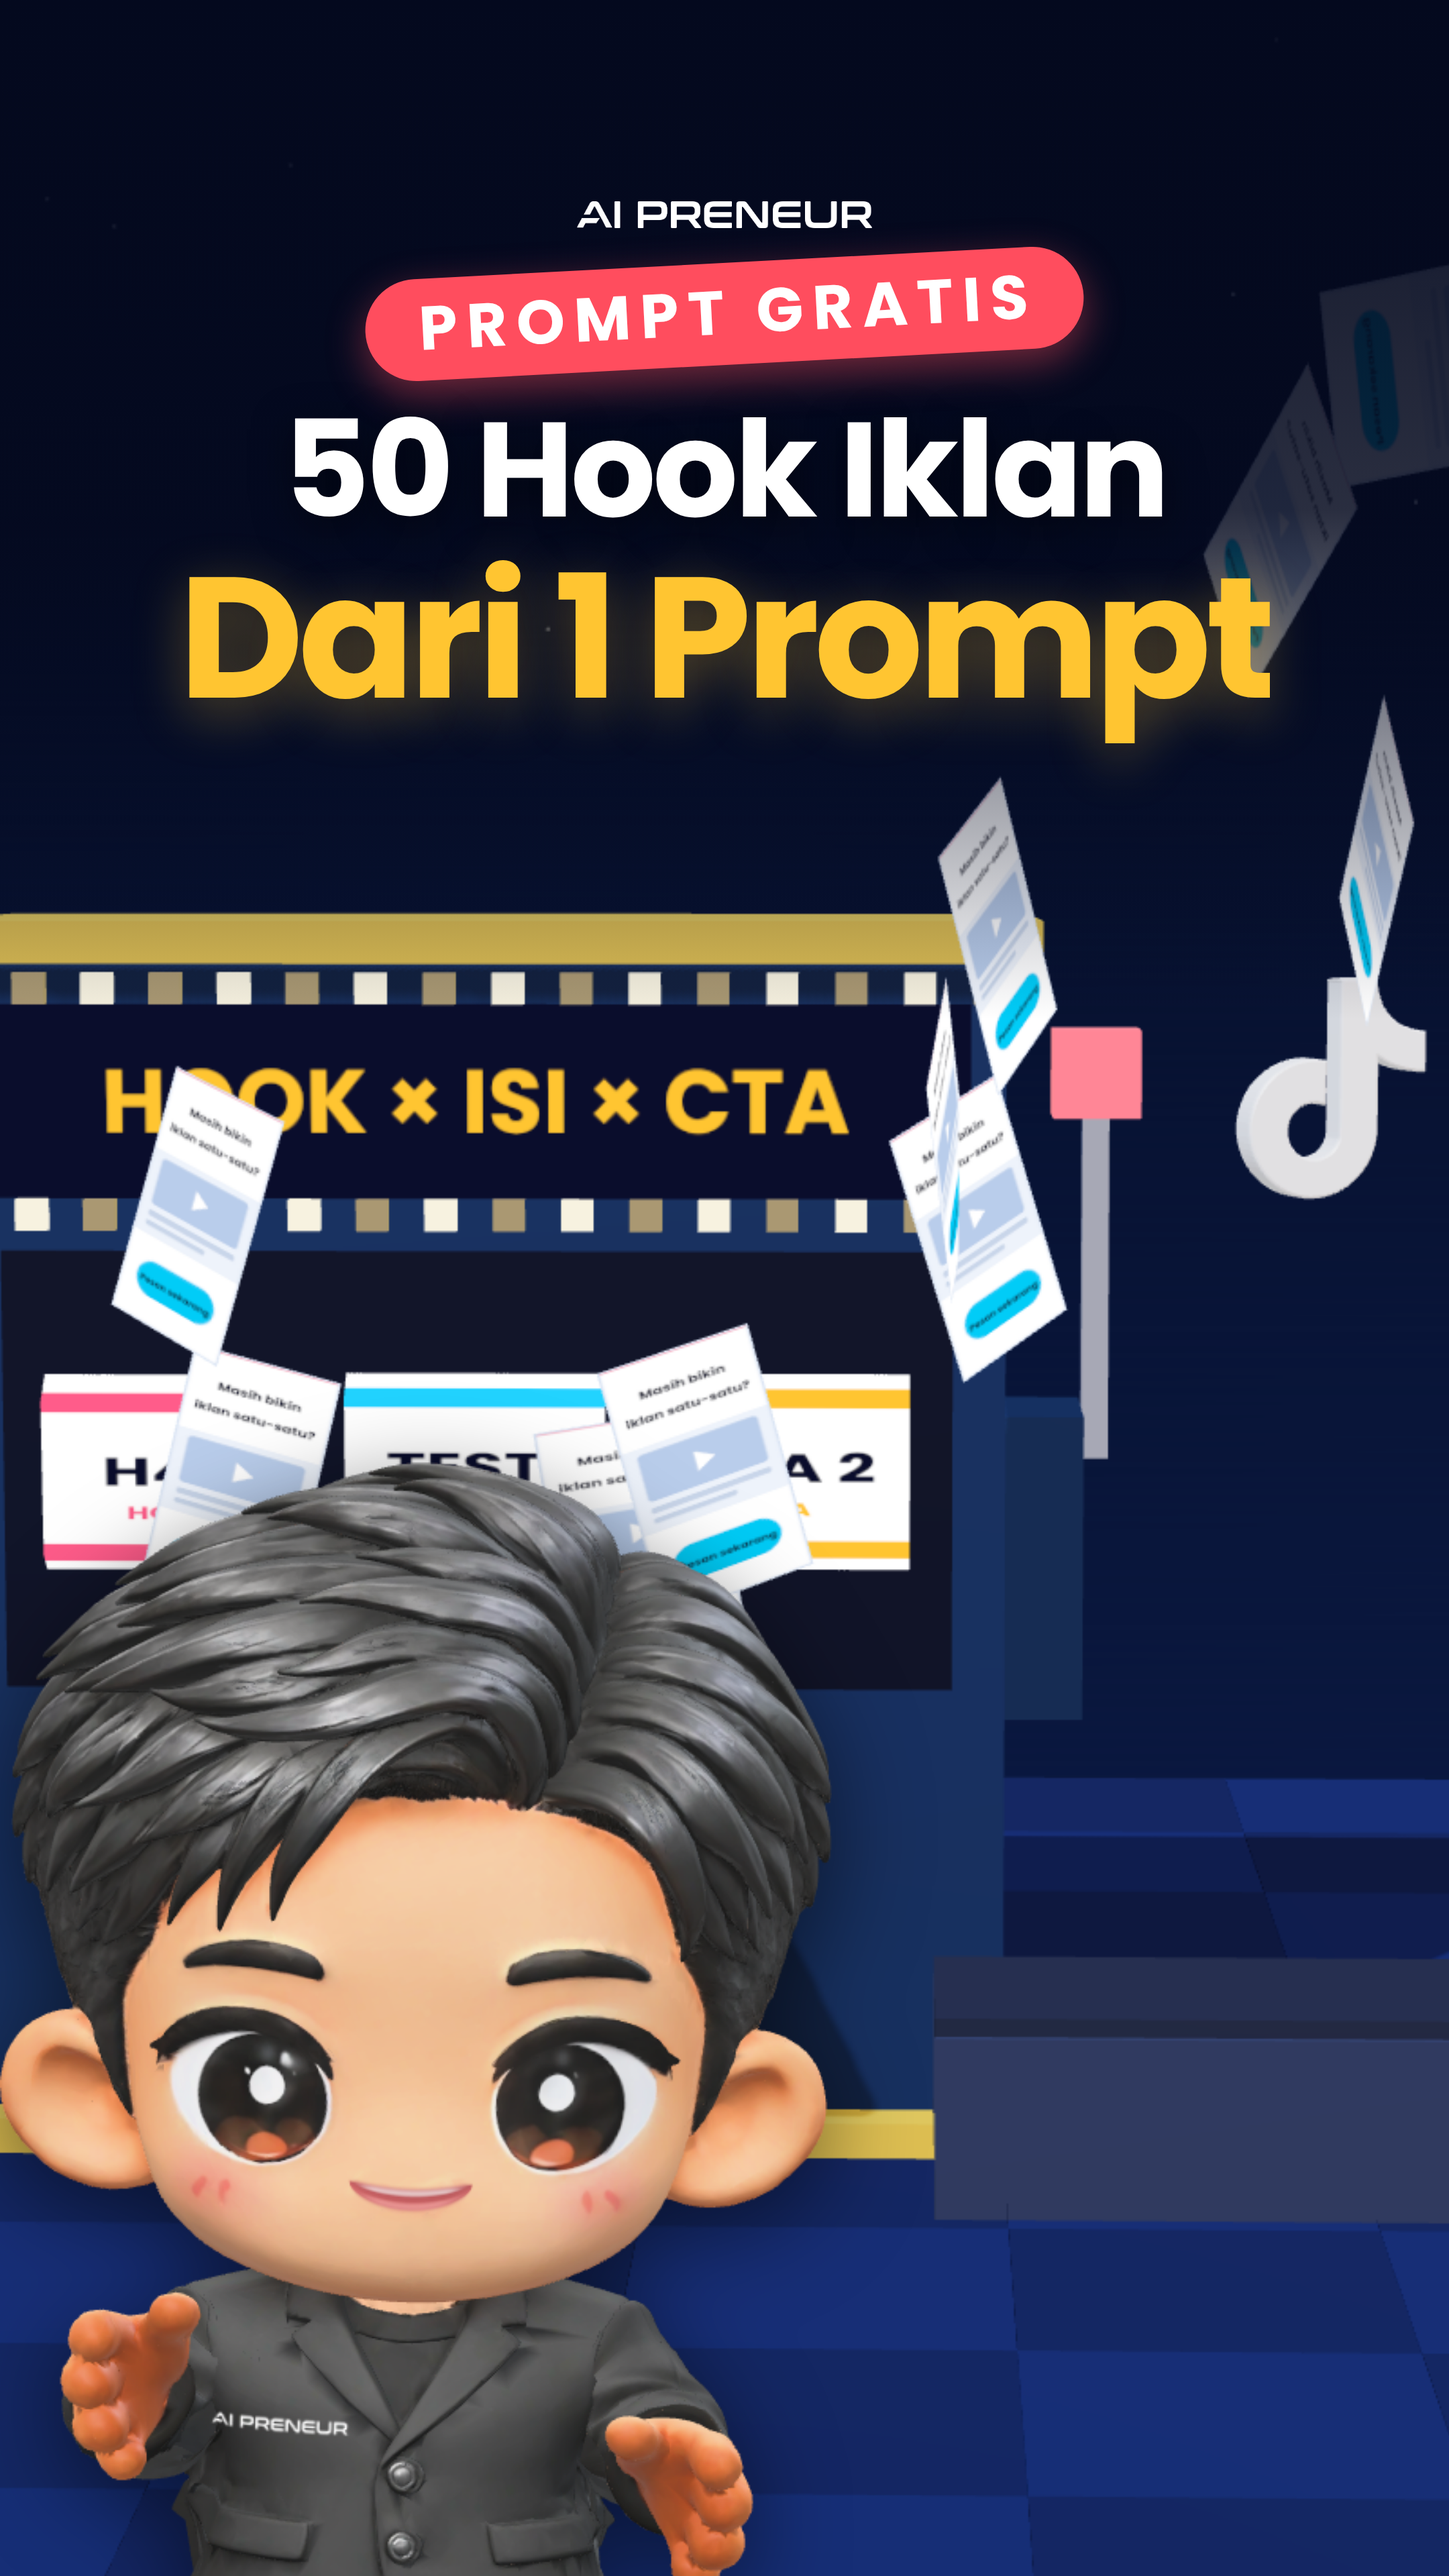
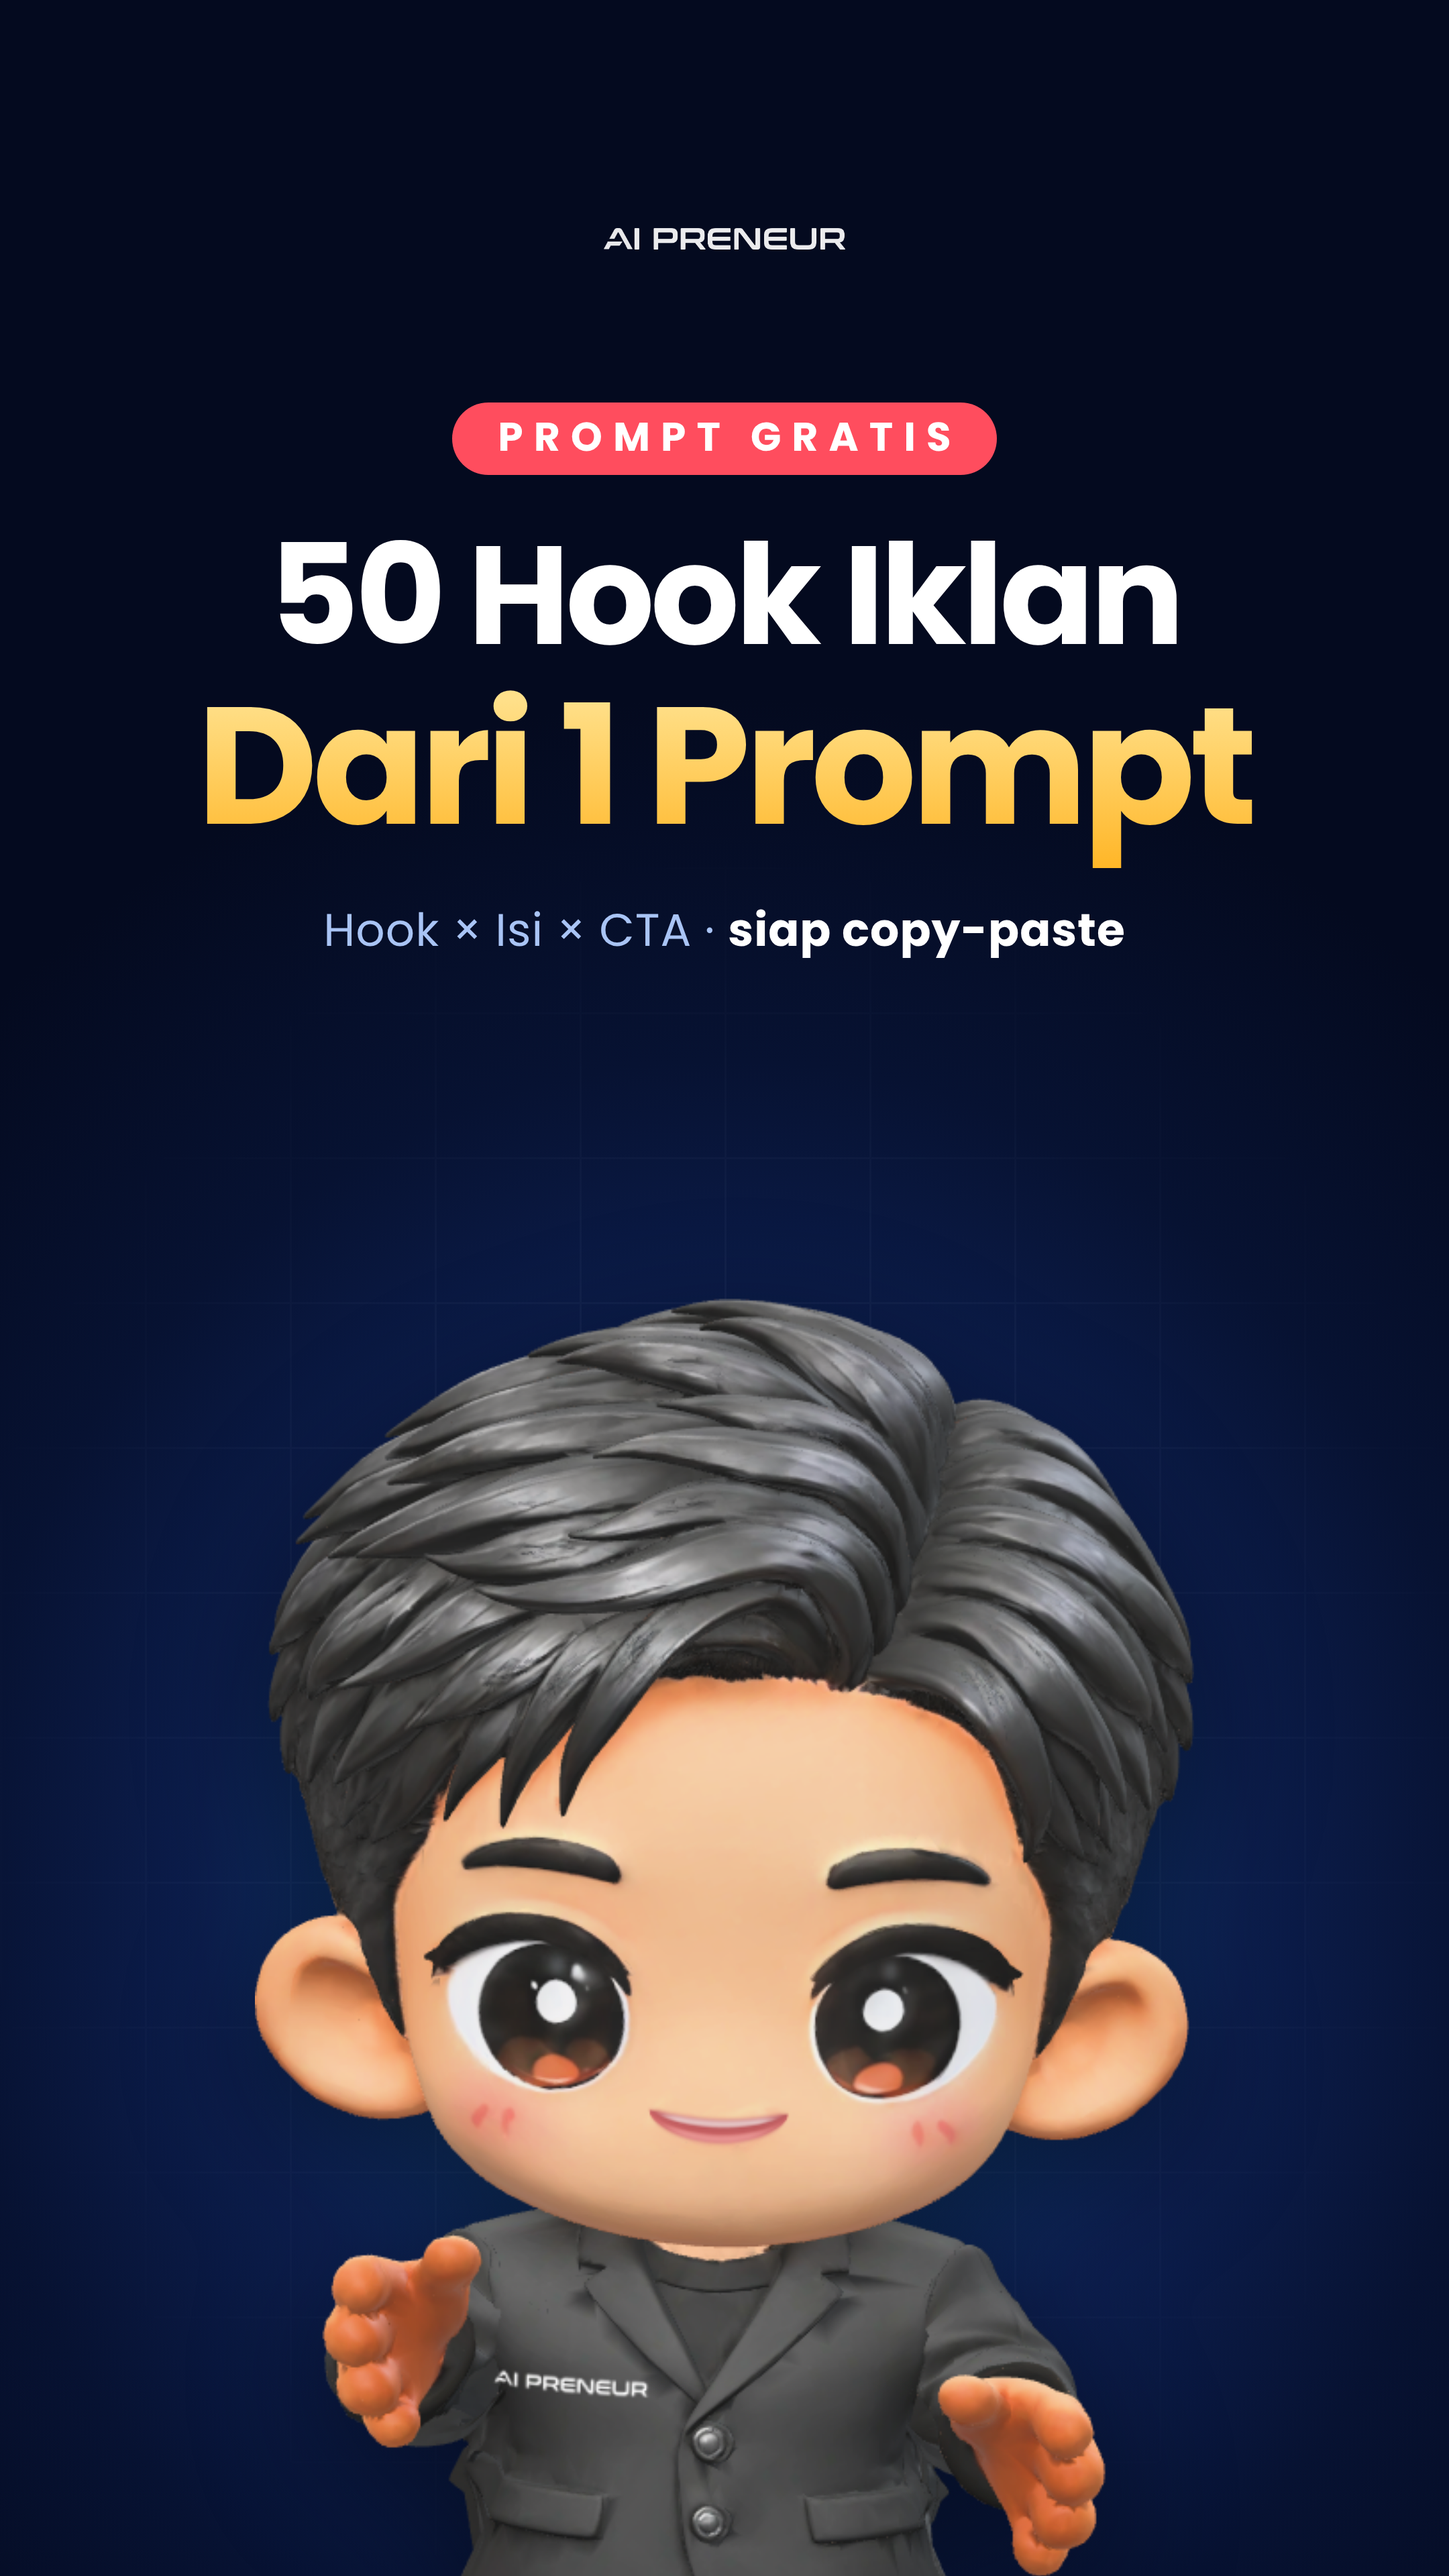
R26: minimal navy thumbnail (negative space); busy version kept as cover_ramai.html
Claude-Session: https://claude.ai/code/session_01FYKeHQKRYJvqWR6SYDVSQw

diff --git a/projects/aip_r26_hookmatrix/thumbnail/cover.html b/projects/aip_r26_hookmatrix/thumbnail/cover.html
@@ -1,28 +1,36 @@
 <!doctype html>
 <html lang="id"><head><meta charset="UTF-8" />
-<title>Cover — R26 1x Syuting 750 Iklan (navy)</title>
-<!-- world still (slot machine, 18.9 s) + mascot layer, both from tools/still.cjs; headline in the night sky -->
+<title>Cover R26 — minimal (navy)</title>
+<!-- Minimal cover (client: "kebanyakan elemen, gak ada negative space"): navy field + soft glow, logo, one small badge,
+     2-line headline, a quiet tagline, the mascot. The busy world-still version is kept as cover_ramai.html. -->
 <style>
   @font-face { font-family: Poppins; src: url(../assets/fonts/poppins-latin-400-normal.woff2) format("woff2"); font-weight: 400; }
   @font-face { font-family: Poppins; src: url(../assets/fonts/poppins-latin-700-normal.woff2) format("woff2"); font-weight: 700; }
   * { margin: 0; padding: 0; box-sizing: border-box; }
-  html, body { width: 1080px; height: 1920px; overflow: hidden; font-family: Poppins, sans-serif; background: #050b22; }
-  #bg { position: absolute; left: -130px; top: -60px; width: 1458px; height: auto; }
-  #fadeT { position: absolute; left: 0; top: 0; width: 1080px; height: 760px; background: linear-gradient(180deg, rgba(4,9,30,.96) 0%, rgba(4,9,30,.85) 50%, rgba(4,9,30,0) 100%); }
-  #host { position: absolute; left: 0; bottom: -40px; width: 620px; height: auto; filter: drop-shadow(0 18px 34px rgba(0,0,0,.5)); }
+  html, body { width: 1080px; height: 1920px; overflow: hidden; font-family: Poppins, sans-serif; color: #fff;
+    background: radial-gradient(ellipse 820px 900px at 540px 1420px, #1b3f86 0%, #0e2257 38%, #071232 70%, #040a1f 100%); }
+  #grid { position: absolute; inset: 0; opacity: .07;
+    background-image: linear-gradient(90deg, #cfe0ff 0 1.5px, transparent 1.5px), linear-gradient(0deg, #cfe0ff 0 1.5px, transparent 1.5px); background-size: 108px 108px;
+    -webkit-mask-image: radial-gradient(ellipse 600px 700px at 540px 1300px, #000 0%, transparent 100%); mask-image: radial-gradient(ellipse 600px 700px at 540px 1300px, #000 0%, transparent 100%); }
+  #halo { position: absolute; left: 140px; top: 1000px; width: 800px; height: 800px; border-radius: 50%;
+    background: radial-gradient(circle, rgba(1,204,247,.28) 0%, rgba(1,204,247,.08) 45%, rgba(1,204,247,0) 70%); }
   .c { position: absolute; left: 0; width: 1080px; text-align: center; white-space: nowrap; }
-  #logo { position: absolute; left: 430px; top: 150px; width: 220px; }
-  #eb { top: 196px; } #eb span { display: inline-block; padding: 14px 34px 16px 40px; border-radius: 48px; background: #ff4d5e; color: #ffffff; font: 700 46px/1 Poppins; letter-spacing: 7px; box-shadow: 0 10px 30px rgba(255,77,94,.45); transform: rotate(-3deg); }
-  #h1 { top: 300px; font: 700 100px/1 Poppins; letter-spacing: -2.5px; color: #ffffff; text-shadow: 0 8px 30px rgba(0,0,0,.5); }
-  #h2 { top: 412px; font: 700 128px/1 Poppins; letter-spacing: -4px; color: #ffc531; text-shadow: 0 10px 40px rgba(255,197,49,.35); }
+  #logo { position: absolute; left: 450px; top: 170px; width: 180px; opacity: .92; }
+  #eb { top: 300px; } #eb span { display: inline-block; padding: 11px 26px 13px 34px; border-radius: 40px; background: #ff4d5e; font: 700 30px/1 Poppins; letter-spacing: 8px; }
+  #h1 { top: 392px; font: 700 104px/1 Poppins; letter-spacing: -3px; }
+  #h2 { top: 506px; font: 700 124px/1.05 Poppins; letter-spacing: -4px; padding-bottom: .15em;
+        background: linear-gradient(180deg, #ffe08a 10%, #ffb627 95%); -webkit-background-clip: text; background-clip: text; color: transparent; }
+  #tag { top: 676px; font: 400 34px/1 Poppins; color: #a9c4f5; letter-spacing: .5px; }
+  #tag b { font-weight: 700; color: #ffffff; }
+  #host { position: absolute; left: 190px; bottom: -30px; width: 700px; height: auto; filter: drop-shadow(0 30px 50px rgba(0,0,0,.45)); }
 </style></head>
 <body>
-  <img id="bg" src="still_world.png" alt="" />
-  <div id="fadeT"></div>
-  <img id="host" src="host_cut.png" alt="" />
+  <div id="grid"></div><div id="halo"></div>
   <img id="logo" src="../assets/brand/logo_white_trim.png" alt="AI PRENEUR" />
   <div class="c" id="eb"><span>PROMPT GRATIS</span></div>
   <div class="c" id="h1">50 Hook Iklan</div>
   <div class="c" id="h2">Dari 1 Prompt</div>
+  <div class="c" id="tag">Hook × Isi × CTA · <b>siap copy-paste</b></div>
+  <img id="host" src="host_cut.png" alt="" />
   <script>document.fonts.ready.then(() => (window.COVER_READY = true));</script>
 </body></html>

diff --git a/projects/aip_r26_hookmatrix/thumbnail/cover_ramai.html b/projects/aip_r26_hookmatrix/thumbnail/cover_ramai.html
@@ -1,0 +1,28 @@
+<!doctype html>
+<html lang="id"><head><meta charset="UTF-8" />
+<title>Cover — R26 1x Syuting 750 Iklan (navy)</title>
+<!-- world still (slot machine, 18.9 s) + mascot layer, both from tools/still.cjs; headline in the night sky -->
+<style>
+  @font-face { font-family: Poppins; src: url(../assets/fonts/poppins-latin-400-normal.woff2) format("woff2"); font-weight: 400; }
+  @font-face { font-family: Poppins; src: url(../assets/fonts/poppins-latin-700-normal.woff2) format("woff2"); font-weight: 700; }
+  * { margin: 0; padding: 0; box-sizing: border-box; }
+  html, body { width: 1080px; height: 1920px; overflow: hidden; font-family: Poppins, sans-serif; background: #050b22; }
+  #bg { position: absolute; left: -130px; top: -60px; width: 1458px; height: auto; }
+  #fadeT { position: absolute; left: 0; top: 0; width: 1080px; height: 760px; background: linear-gradient(180deg, rgba(4,9,30,.96) 0%, rgba(4,9,30,.85) 50%, rgba(4,9,30,0) 100%); }
+  #host { position: absolute; left: 0; bottom: -40px; width: 620px; height: auto; filter: drop-shadow(0 18px 34px rgba(0,0,0,.5)); }
+  .c { position: absolute; left: 0; width: 1080px; text-align: center; white-space: nowrap; }
+  #logo { position: absolute; left: 430px; top: 150px; width: 220px; }
+  #eb { top: 196px; } #eb span { display: inline-block; padding: 14px 34px 16px 40px; border-radius: 48px; background: #ff4d5e; color: #ffffff; font: 700 46px/1 Poppins; letter-spacing: 7px; box-shadow: 0 10px 30px rgba(255,77,94,.45); transform: rotate(-3deg); }
+  #h1 { top: 300px; font: 700 100px/1 Poppins; letter-spacing: -2.5px; color: #ffffff; text-shadow: 0 8px 30px rgba(0,0,0,.5); }
+  #h2 { top: 412px; font: 700 128px/1 Poppins; letter-spacing: -4px; color: #ffc531; text-shadow: 0 10px 40px rgba(255,197,49,.35); }
+</style></head>
+<body>
+  <img id="bg" src="still_world.png" alt="" />
+  <div id="fadeT"></div>
+  <img id="host" src="host_cut.png" alt="" />
+  <img id="logo" src="../assets/brand/logo_white_trim.png" alt="AI PRENEUR" />
+  <div class="c" id="eb"><span>PROMPT GRATIS</span></div>
+  <div class="c" id="h1">50 Hook Iklan</div>
+  <div class="c" id="h2">Dari 1 Prompt</div>
+  <script>document.fonts.ready.then(() => (window.COVER_READY = true));</script>
+</body></html>
